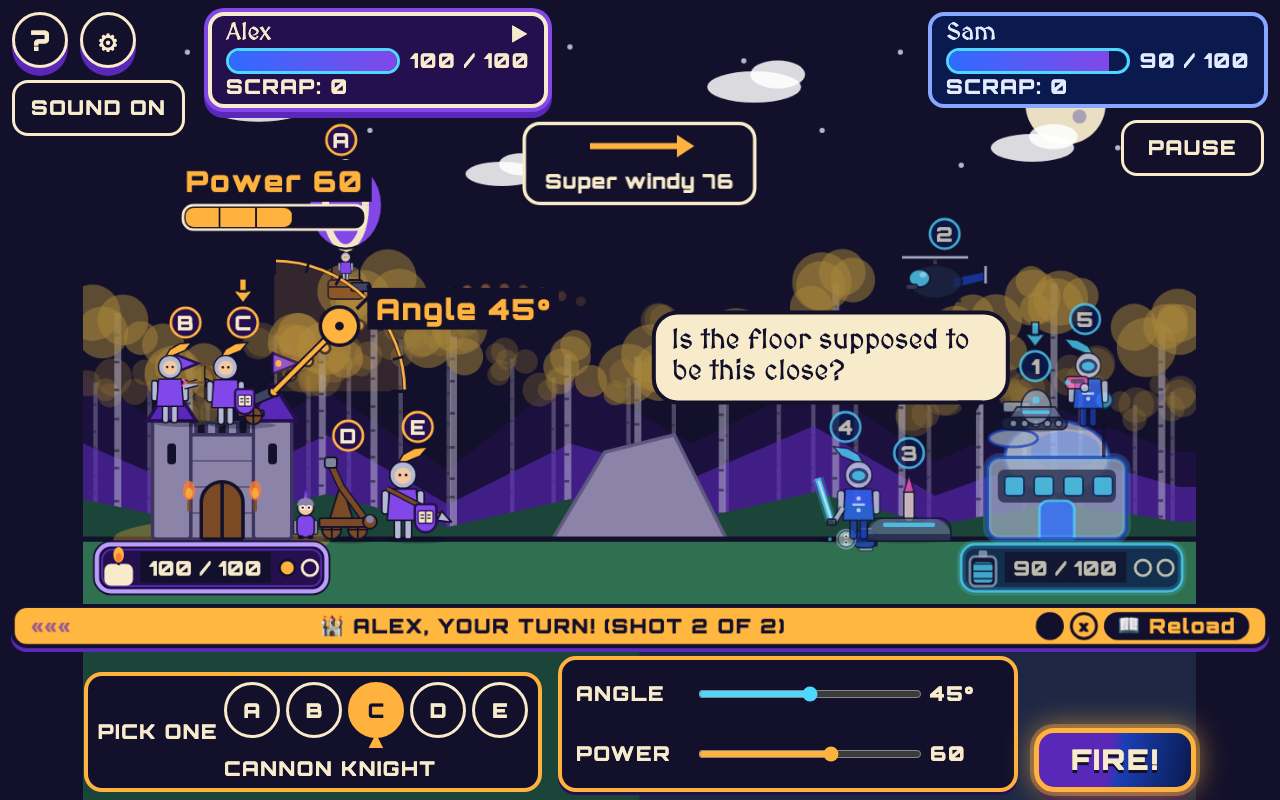
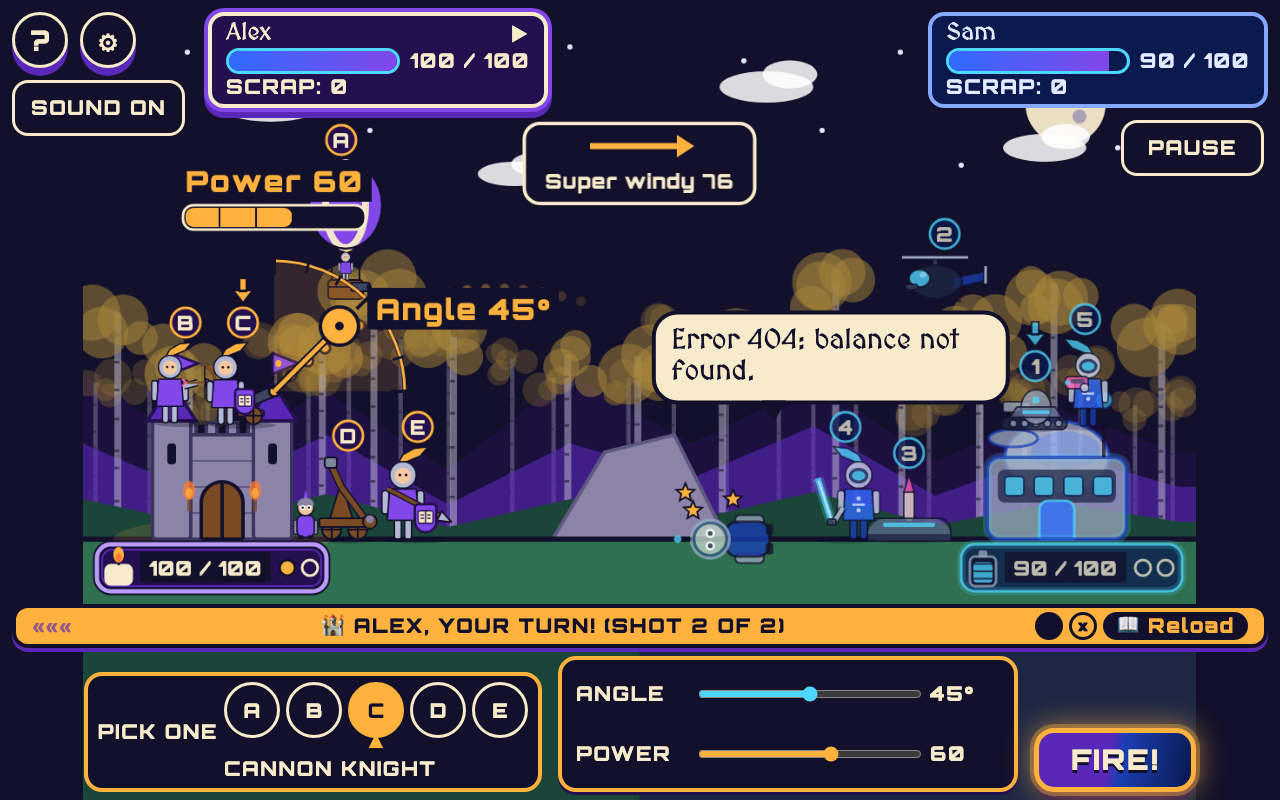
feat(battle): bigger burst, fall at readable size, tail follows the fallen fighter, docs
The fall is drawn 2x, lands in clear ground, and the speech bubble tail
aims at the stars over the fighter. Docs and backlog updated.

diff --git a/src/scenes/battle/fightEffects.ts b/src/scenes/battle/fightEffects.ts
@@ -217,51 +217,51 @@ export function playHitBurst(
   }
   const ring = scene.add
     .circle(pos.x, pos.y, plan.ring.radius)
-    .setStrokeStyle(5, plan.ring.color, 1)
+    .setStrokeStyle(6, plan.ring.color, 1)
     .setDepth(DEPTH + 1);
-  jobs.push(
-    tweenDone(scene, {
-      targets: ring,
-      scale: plan.ring.endScale,
-      alpha: 0,
-      duration: plan.ring.durationMs,
-      ease: 'Quad.easeOut',
-      onComplete: () => ring.destroy(),
-    }),
-  );
   const smoke = scene.add
     .circle(pos.x, pos.y, plan.smoke.radius, plan.smoke.color, 0.6)
     .setDepth(DEPTH - 1);
+  const bits = plan.particles.map((q) =>
+    scene.add
+      .circle(pos.x, pos.y, q.size, q.color, 1)
+      .setStrokeStyle(2, PALETTE.shared.ink, 0.9)
+      .setDepth(DEPTH + 1),
+  );
+  const local = (t: number, delay: number, dur: number): number =>
+    Math.min(1, Math.max(0, (t - delay) / dur));
+  const easeOut = (u: number): number => 1 - (1 - u) * (1 - u) * (1 - u);
+  // One clock drives the ring, the smoke and every flying bit, so they all end together.
   jobs.push(
     tweenDone(scene, {
-      targets: smoke,
-      y: pos.y - plan.smoke.rise,
-      scale: 2,
-      alpha: 0,
-      delay: plan.smoke.delayMs,
-      duration: plan.smoke.durationMs,
-      onComplete: () => smoke.destroy(),
+      targets: { t: 0 },
+      t: HIT_FX.burstMaxMs,
+      duration: HIT_FX.burstMaxMs,
+      onUpdate: (_tw, target: { t: number }) => {
+        const t = target.t;
+        const r = local(t, plan.ring.delayMs, plan.ring.durationMs);
+        ring.setScale(1 + (plan.ring.endScale - 1) * easeOut(r)).setAlpha(1 - r * r);
+        const m = local(t, plan.smoke.delayMs, plan.smoke.durationMs);
+        smoke
+          .setPosition(pos.x, pos.y - plan.smoke.rise * easeOut(m))
+          .setScale(1 + easeOut(m))
+          .setAlpha(0.6 * (1 - m));
+        plan.particles.forEach((q, i) => {
+          const u = local(t, q.delayMs, q.durationMs);
+          bits[i]!.setPosition(
+            pos.x + Math.cos(q.angle) * q.dist * easeOut(u),
+            pos.y + Math.sin(q.angle) * q.dist * easeOut(u) + 24 * u * u,
+          )
+            .setScale(1 - 0.7 * u)
+            .setAlpha(u >= 1 ? 0 : 1 - u * u * u);
+        });
+      },
+    }).then(() => {
+      ring.destroy();
+      smoke.destroy();
+      for (const b of bits) b.destroy();
     }),
   );
-  for (const q of plan.particles) {
-    const bit = scene.add
-      .circle(pos.x, pos.y, q.size, q.color, 1)
-      .setStrokeStyle(1, PALETTE.shared.ink, 0.8)
-      .setDepth(DEPTH + 1);
-    jobs.push(
-      tweenDone(scene, {
-        targets: bit,
-        x: pos.x + Math.cos(q.angle) * q.dist,
-        y: pos.y + Math.sin(q.angle) * q.dist,
-        alpha: 0,
-        scale: 0.3,
-        delay: q.delayMs,
-        duration: q.durationMs,
-        ease: 'Cubic.easeOut',
-        onComplete: () => bit.destroy(),
-      }),
-    );
-  }
   return Promise.all(jobs).then(() => undefined);
 }
 

diff --git a/src/scenes/battle/hitFx.ts b/src/scenes/battle/hitFx.ts
@@ -67,14 +67,14 @@ export function hitBurstPlan(shooter: Team, scale: number, seed: number): HitBur
       dist:
         (HIT_FX.particleMinDist + rng.next() * (HIT_FX.particleMaxDist - HIT_FX.particleMinDist)) *
         s,
-      size: Math.round((5 + rng.next() * 6) * Math.min(s, 1.5)),
+      size: Math.round((7 + rng.next() * 7) * Math.min(s, 1.5)),
       color: colors.particles[i % colors.particles.length] as number,
       delayMs,
       durationMs: Math.min(durationMs, HIT_FX.burstMaxMs - 20 - delayMs),
     });
   }
   return {
-    flash: { radius: 60 * s, delayMs: 0, durationMs: HIT_FX.flashMs, color: colors.flash },
+    flash: { radius: 80 * s, delayMs: 0, durationMs: HIT_FX.flashMs, color: colors.flash },
     ring: {
       radius: HIT_FX.ringStartRadius,
       endScale: HIT_FX.ringEndScale * s,
@@ -83,8 +83,8 @@ export function hitBurstPlan(shooter: Team, scale: number, seed: number): HitBur
       color: colors.ring,
     },
     smoke: {
-      radius: 26 * s,
-      rise: 46 * s,
+      radius: 34 * s,
+      rise: 60 * s,
       delayMs: 40,
       durationMs: HIT_FX.smokeMs,
       color: colors.smoke,
@@ -118,7 +118,7 @@ export function damagePipText(damage: number): string | null {
   return `-${Math.round(damage)}`;
 }
 
-/** The pip starts just over the middle of the base that was hit. */
+/** The pip starts over the roof of the base that was hit, clear of the hit label and health tag. */
 export function pipAnchor(base: Rect): Vec2 {
-  return { x: base.x + base.w / 2, y: base.y - 24 };
+  return { x: base.x + base.w / 2, y: base.y - 30 };
 }

diff --git a/tests/scenes/battle/geometry.test.ts b/tests/scenes/battle/geometry.test.ts
@@ -23,7 +23,7 @@ import {
   sideAlpha,
   windArrow,
 } from '../../../src/scenes/battle/geometry';
-import { BUBBLE_MAX_WORLD_W } from '../../../src/scenes/battle/visual';
+import { BUBBLE_MAX_WORLD_W, FALL_DX } from '../../../src/scenes/battle/visual';
 
 describe('aimVector', () => {
   it('points toward the enemy for Past and flips for Future', () => {
@@ -162,6 +162,17 @@ describe('placement', () => {
       expect(t.x).toBe(spot.x);
       expect(t.y).toBeLessThan(spot.y);
       // Close enough that the tail visibly points at the character, not at empty sky.
+      const a = bubbleAnchor(team, PHASE1_LAYOUT);
+      expect(Math.abs(t.x - a.x)).toBeLessThanOrEqual(BUBBLE_MAX_WORLD_W / 2);
+    }
+  });
+  it('aims the tail at the stars over a fallen fighter, out toward the field', () => {
+    for (const team of ['PAST', 'FUTURE'] as const) {
+      const spot = characterSpot(team, PHASE1_LAYOUT);
+      const t = bubbleTailTarget(team, PHASE1_LAYOUT, true);
+      expect(Math.abs(t.x - spot.x)).toBe(FALL_DX);
+      expect(Math.sign(t.x - spot.x)).toBe(team === 'PAST' ? 1 : -1);
+      expect(t.y).toBeLessThan(spot.y);
       const a = bubbleAnchor(team, PHASE1_LAYOUT);
       expect(Math.abs(t.x - a.x)).toBeLessThanOrEqual(BUBBLE_MAX_WORLD_W / 2);
     }

diff --git a/src/scenes/battle/geometry.ts b/src/scenes/battle/geometry.ts
@@ -1,11 +1,12 @@
 // Pure layout math for the Battle scene. No Phaser, so it is unit tested.
-import { AIM, BASES, DAMAGE, TIMING, TURN, WIND } from '../../game/config';
+import { AIM, BASES, DAMAGE, HIT_FX, TIMING, TURN, WIND } from '../../game/config';
 import type { AimInput, BattleLayout, Team, Vec2 } from '../../game/types';
 import {
   BUBBLE_MAX_WORLD_W,
   BUBBLE_RISE,
   CHARACTER_OFFSET,
   DIAL,
+  FALL_DX,
   TAIL_TARGET_RISE,
   WIND_ARROW_MAX,
 } from './visual';
@@ -88,8 +89,13 @@ export function characterSpot(team: Team, layout: BattleLayout): Vec2 {
 }
 
 /** The point the speech bubble tail aims at: just above the speaker's head. */
-export function bubbleTailTarget(team: Team, layout: BattleLayout): Vec2 {
+export function bubbleTailTarget(team: Team, layout: BattleLayout, fallen = false): Vec2 {
   const spot = characterSpot(team, layout);
+  if (fallen) {
+    // A fallen fighter lies FALL_DX out toward the field, so the tail aims at the stars above it.
+    const dir = team === 'PAST' ? 1 : -1;
+    return { x: spot.x + dir * FALL_DX, y: spot.y - HIT_FX.fallenTailRise };
+  }
   return { x: spot.x, y: spot.y - TAIL_TARGET_RISE };
 }
 

diff --git a/src/scenes/battle/tumble.ts b/src/scenes/battle/tumble.ts
@@ -52,6 +52,8 @@ export type TumblePose = {
   /** Pixels off the ground. */
   lift: number;
   lookDir: -1 | 0 | 1;
+  /** Extra size on top of the squash. Missing means 1. */
+  scale?: number;
 };
 
 const HEAD_HEIGHT = 80;
@@ -143,6 +145,8 @@ export type FallFrame = {
   squashY: number;
   armSwingDeg: number;
   lookDir: -1 | 0 | 1;
+  /** 1 is normal size. A fighter grows while it flies so the fall can be seen. */
+  scale: number;
 };
 
 /** Where each phase ends, as a share of the total. */
@@ -221,6 +225,7 @@ export function fallFrame(
     squashY,
     armSwingDeg,
     lookDir,
+    scale: phase === 'fly' ? lerp(1, HIT_FX.fallScale, easeOut(u)) : HIT_FX.fallScale,
   };
 }
 
@@ -238,6 +243,7 @@ export function standUpFrame(u: number, variant: FallVariant): FallFrame {
     squashY: 1,
     armSwingDeg: 0,
     lookDir: 0,
+    scale: lerp(HIT_FX.fallScale, 1, e),
   };
 }
 
@@ -283,6 +289,7 @@ export function fallPose(frame: FallFrame): TumblePose {
     armSwingDeg: frame.armSwingDeg,
     lift: frame.lift,
     lookDir: frame.lookDir,
+    scale: frame.scale,
   };
 }
 

diff --git a/tests/scenes/battle/fight.test.ts b/tests/scenes/battle/fight.test.ts
@@ -10,6 +10,7 @@ import {
   LYING_DEG,
   vanishFrame,
 } from '../../../src/scenes/battle/tumble';
+import { HIT_FX } from '../../../src/game/config';
 import { FALL_DX, FALL_MS } from '../../../src/scenes/battle/visual';
 
 describe('explosionPlan', () => {
@@ -85,6 +86,7 @@ describe('fallFrame', () => {
         expect(last.dx).toBe(FALL_DX);
         expect(Math.abs(last.rotationDeg)).toBeCloseTo(LYING_DEG);
         expect(last.squashY).toBe(1);
+        expect(last.scale).toBe(HIT_FX.fallScale);
       });
       it('goes through fly, land, wobble, topple in order', () => {
         const order = ['fly', 'land', 'wobble', 'topple'];
@@ -161,6 +163,8 @@ describe('standUpFrame', () => {
       expect(z.rotationDeg).toBeCloseTo(0);
       expect(z.dx).toBeCloseTo(0);
       expect(z.lift).toBeCloseTo(0);
+      expect(a.scale).toBeCloseTo(HIT_FX.fallScale);
+      expect(z.scale).toBeCloseTo(1);
       for (let i = 0; i <= 20; i++) {
         const f = standUpFrame(i / 20, variant);
         expect(f.lift).toBeGreaterThanOrEqual(0);

diff --git a/src/game/config.ts b/src/game/config.ts
@@ -266,10 +266,10 @@ export const HIT_FX = {
   flashMs: 120,
   ringMs: 420,
   ringStartRadius: 14,
-  ringEndScale: 5,
+  ringEndScale: 9,
   smokeMs: 800,
-  particleMinDist: 50,
-  particleMaxDist: 130,
+  particleMinDist: 80,
+  particleMaxDist: 190,
   particleMinMs: 450,
   particleMaxMs: 800,
   /** Photosensitivity: no more than this many flashes in any one second. */
@@ -286,12 +286,16 @@ export const HIT_FX = {
   starRadiusPx: 34,
   starSquash: 0.35,
   starPeriodMs: 1400,
-  starSizePx: 9,
+  starSizePx: 11,
   /** How far above the lying head the stars circle. */
   starLiftPx: 44,
   /** Standing back up after the fall. */
   standUpMs: 600,
   standUpHop: 18,
+  /** A fighter in a fall is drawn this many times bigger, so the slapstick can be seen. */
+  fallScale: 2,
+  /** The speech bubble tail aims this far above a fallen fighter's feet (clears the stars). */
+  fallenTailRise: 72,
   /** Small bounce when a fighter lands. */
   landBounce: 22,
 } as const;

diff --git a/src/scenes/battle/sprites.ts b/src/scenes/battle/sprites.ts
@@ -246,7 +246,7 @@ export function createCharacter(
         drawEyes(0);
         return;
       }
-      container.setScale(pose.squashX, pose.squashY);
+      container.setScale(pose.squashX * (pose.scale ?? 1), pose.squashY * (pose.scale ?? 1));
       container.setAngle(pose.rotationDeg * facing);
       container.setY(groundY - pose.lift);
       armL.setAngle(pose.armSwingDeg);

diff --git a/tests/scenes/battle/hitFx.test.ts b/tests/scenes/battle/hitFx.test.ts
@@ -94,7 +94,7 @@ describe('damage pip', () => {
     expect(damagePipText(-4)).toBeNull();
     expect(damagePipText(NaN)).toBeNull();
   });
-  it('sits above the middle of the base', () => {
+  it('sits over the middle of the base, above its roof', () => {
     const a = pipAnchor({ x: 100, y: 300, w: 200, h: 220 });
     expect(a.x).toBe(200);
     expect(a.y).toBeLessThan(300);

diff --git a/src/scenes/battle/visual.ts b/src/scenes/battle/visual.ts
@@ -133,7 +133,7 @@ export const REDUCED_FADE_MS = 250;
 
 /** Awkward tumble: fly away, land, wobble or lie, then topple. All in ms and px. */
 export const FALL_MS = 1500;
-export const FALL_DX = 110;
+export const FALL_DX = 230;
 export const FALL_HEIGHT = 120;
 /** The vanish puff after the tumble. */
 export const VANISH_MS = 700;

diff --git a/src/scenes/battle/flow.ts b/src/scenes/battle/flow.ts
@@ -206,7 +206,7 @@ export class BattleFlow {
           text,
           team: tumbler,
           anchor: bubbleAnchor(tumbler, match.layout),
-          tailTarget: bubbleTailTarget(tumbler, match.layout),
+          tailTarget: bubbleTailTarget(tumbler, match.layout, true),
         });
       }
     }

diff --git a/ARCHITECTURE.md b/ARCHITECTURE.md
@@ -33,6 +33,9 @@ Each team has five fighters in `src/game/units.ts` (`UNITS`, `unitsOf`, `unitByI
 ## Ammo (rules built, not yet wired into the match)
 `src/game/ammo.ts` holds four kinds: standard, confetti explosives, bouncy plasma spheres and heavy iron bowling balls. Standard is free, unlimited and changes nothing (`tests/game/ammo.test.ts` pins that). The other three cost Scrap to unlock (10, 14, 18) and have 3, 3 and 2 uses per match. `simulateShot({ ..., ammo })` applies speed and wind scales and the plasma bounce (once, off the ground only; the result adds `bounced`). `classifyBlast(impact, base, radiusScale)` widens the blast for confetti. `scaleDamage(base, ammo)` scales and rounds damage. An unknown id counts as standard.
 
+## The hit moment
+A hit gets a burst (`playHitBurst`: a flash, an expanding ring, 14 flying bits and a puff, fire for Team Past and cyan and white for Team Future, gone in under 0.9 s) on top of the explosion, a floating "-N" pip over the base that was hit, and a pop on that base's health number. A near miss also knocks the defender down: a hop, a spin, a bounce, then lying still with 3 circling stars until the next turn, when the fighter stands back up. The fall style (face-plant or backward flop) comes from the match seed (`fallVariantFor`). The wipeout line comes from `tumblePool(team)` in `src/data/copy.ts`: shared lines plus that team's own. All numbers are in `HIT_FX` in `src/game/config.ts`. The plans are pure and tested (`src/scenes/battle/hitFx.ts`, `tumble.ts`). One flash limiter (`flashAllowed`) keeps every screen flash under 3 a second. With reduced motion on: a short fade, the final fallen pose, the bubble and the pip, with no flying or spinning.
+
 ## Key data shapes
 ```ts
 type Team = 'PAST' | 'FUTURE';
